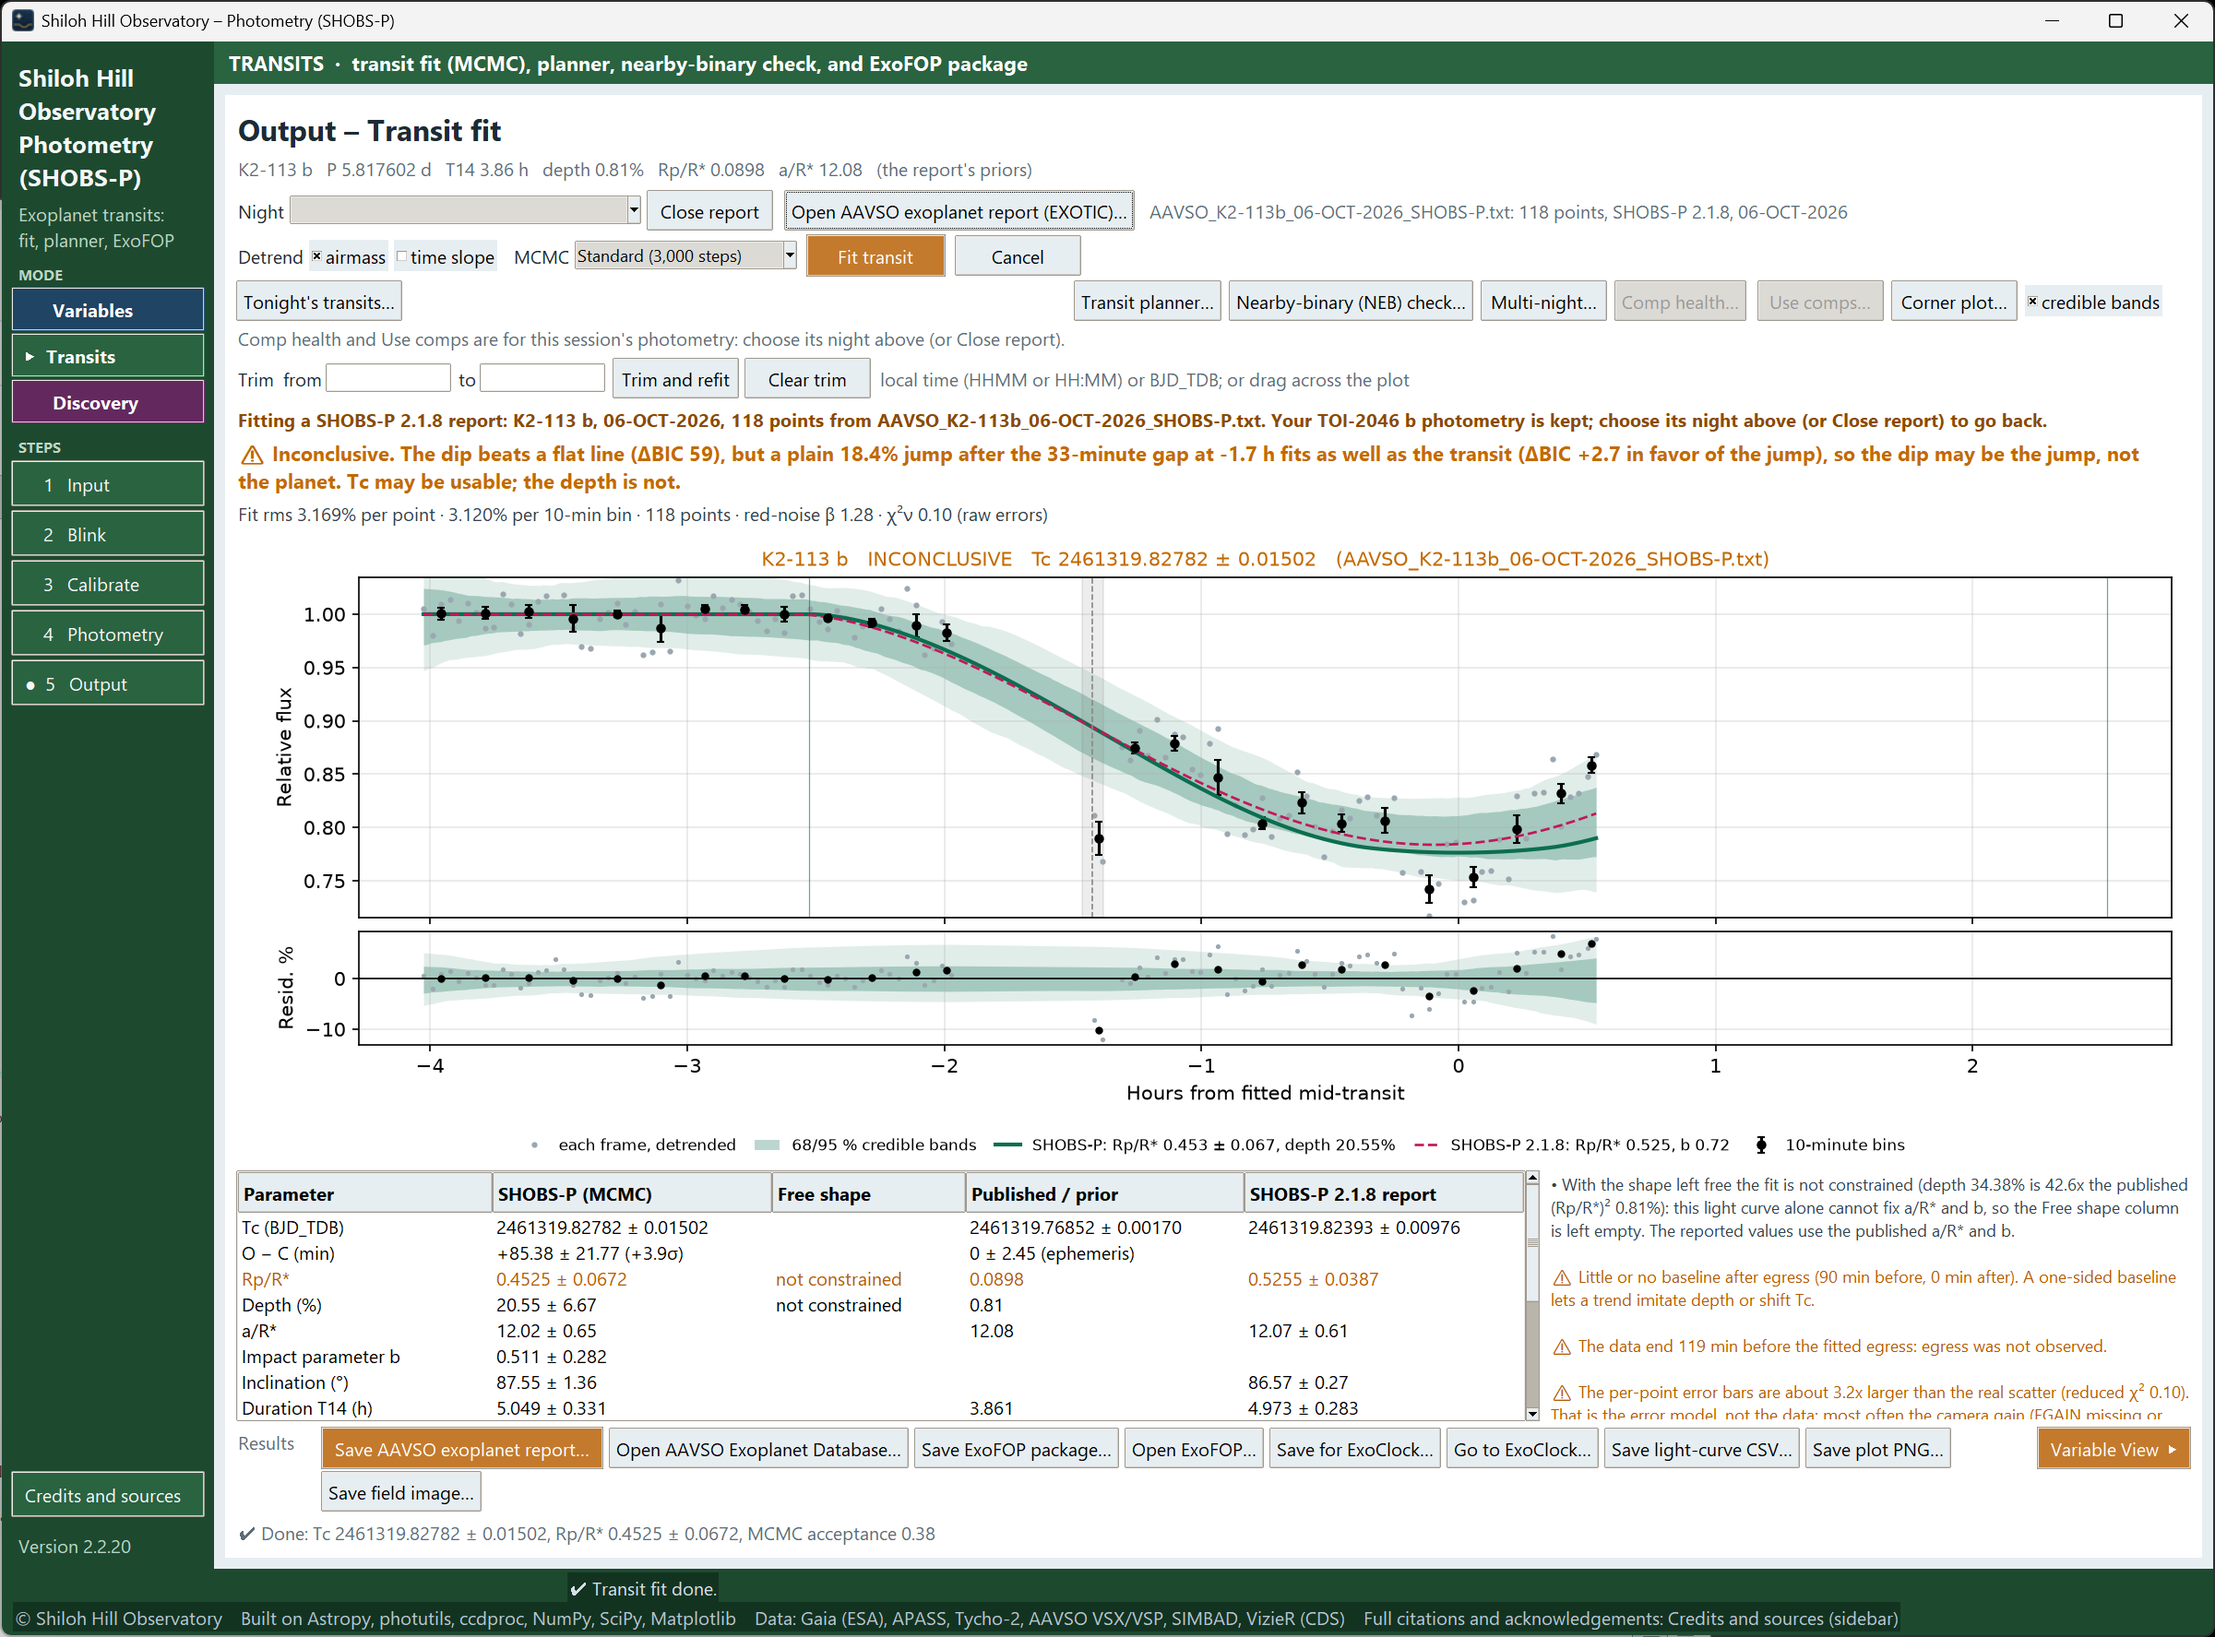
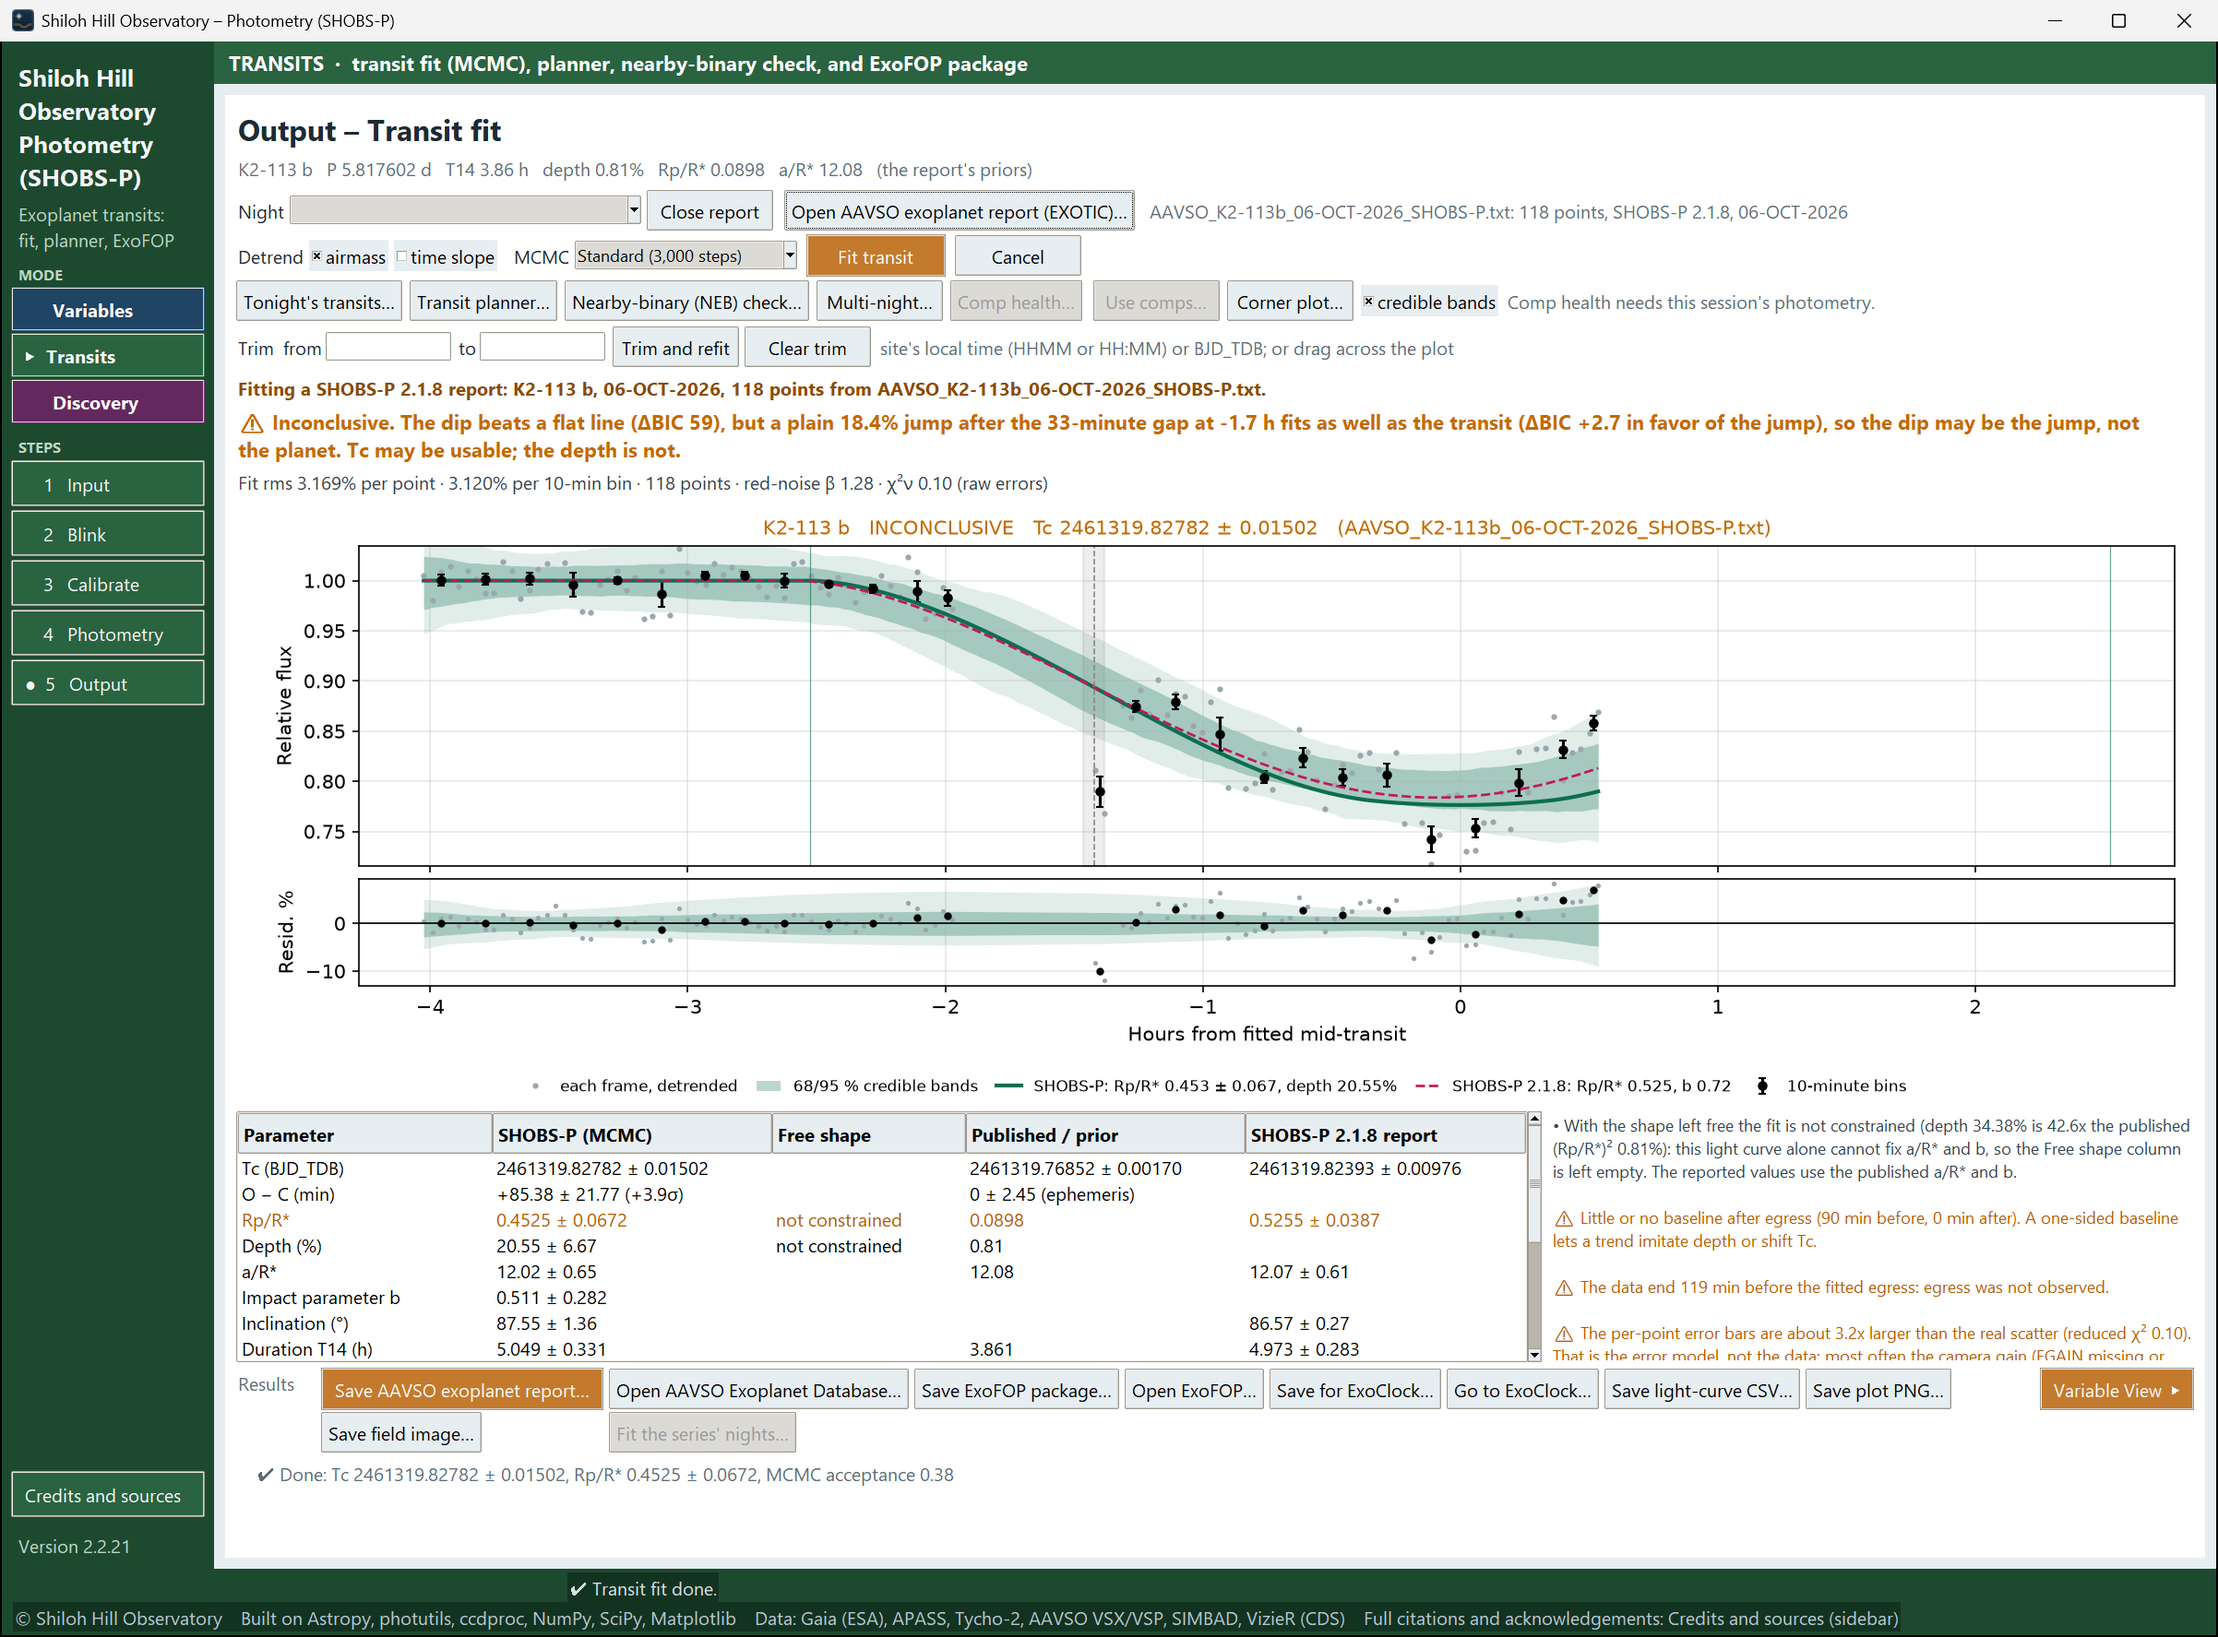
2.2.21 manual: screenshots retaken on 2.2.21 (31 shots: Time zone row, TOI/ExoClock lines, UTC offsets, Fit the series' nights…, Clear cached catalogs, version line); README edition text
Claude-Session: https://claude.ai/code/session_01FUz9tGo5xTYzuotKQ3t1RT

diff --git a/docs/manual/README.md b/docs/manual/README.md
@@ -1,11 +1,13 @@
-# SHOBS-P User's Manual (version 2.2.20)
+# SHOBS-P User's Manual (version 2.2.21)
 
 > November 2026. Written for SHOBS-P 2.2.18, updated for 2.2.19 (Linux and Mac start files, New reduction,
 > defocused stars, the linear limit, the corner plot and multi-night transit timing, among others) and for 2.2.20
 > (one busy bar for every wait; the field image as shot with N/E arrows; New reduction resets the Output page notes,
 > and a report whose notes name another star asks first; the No-AUID warning; Save for ExoClock; a roomier
 > Multi-night window with its own corner plot; airmass in the transit-fit CSV; a simpler Linux and Mac setup that
-> prefers Python 3.13), checked against the program. Screenshots of the pages that 2.2.20 changed were retaken on 2.2.20.
+> prefers Python 3.13) and for 2.2.21 (the site's time zone; TOI status and ExoClock priority at planet lookup; a
+> saved copy of each lookup for when a service is down, with Clear cached catalogs; Fit the series' nights…; report
+> saves that keep the series' own site), checked against the program. Screenshots were retaken on 2.2.21.
 > Each chapter is its own file in this folder; this page is the table of contents.
 
 ## Part 1 — Getting to know SHOBS-P
@@ -61,4 +63,4 @@
 26. **[Credits and how to cite SHOBS-P](26-credits-and-citing.md)** — the Copy button, DOI, CITATION.cff.
 
 ---
-*Screenshots are from SHOBS-P 2.2.17–2.2.20 on Windows; every page that 2.2.20 changed was retaken on 2.2.20.*
+*Screenshots are from SHOBS-P 2.2.17–2.2.21 on Windows; every window that shows the version, and every page that 2.2.21 changed, was retaken on 2.2.21.*

diff --git a/docs/manual/17-fit-a-transit-and-submit-it.md b/docs/manual/17-fit-a-transit-and-submit-it.md
@@ -404,7 +404,7 @@ plot PNG…**, **Corner plot…** and **Close**.
 
 ![The Multi-night window after a fit](img/17-multinight-window.png)
 
-*The Multi-night window after a joint fit of four nights: nights table above the divider, plots below.*
+*The Multi-night window after a joint fit of three nights: nights table above the divider, plots below.*
 
 The joint fit uses one transit shape (Rp/R\*, a/R\*, b and limb darkening) for all nights, with each night's own
 mid-transit time, baseline and detrending. Then the timing table lists each epoch: **Tc (BJD_TDB) ± min**, and the
@@ -443,7 +443,7 @@ against its prior range gets the same ⚠ as on a single night. **Save PNG…** 
 
 ![The corner plot of a multi-night fit](img/17-multinight-corner.png)
 
-*The joint corner plot of four nights: the shared shape, and one Tc panel per night.*
+*The joint corner plot of three nights: the shared shape, and one Tc panel per night.*
 
 ---
 
